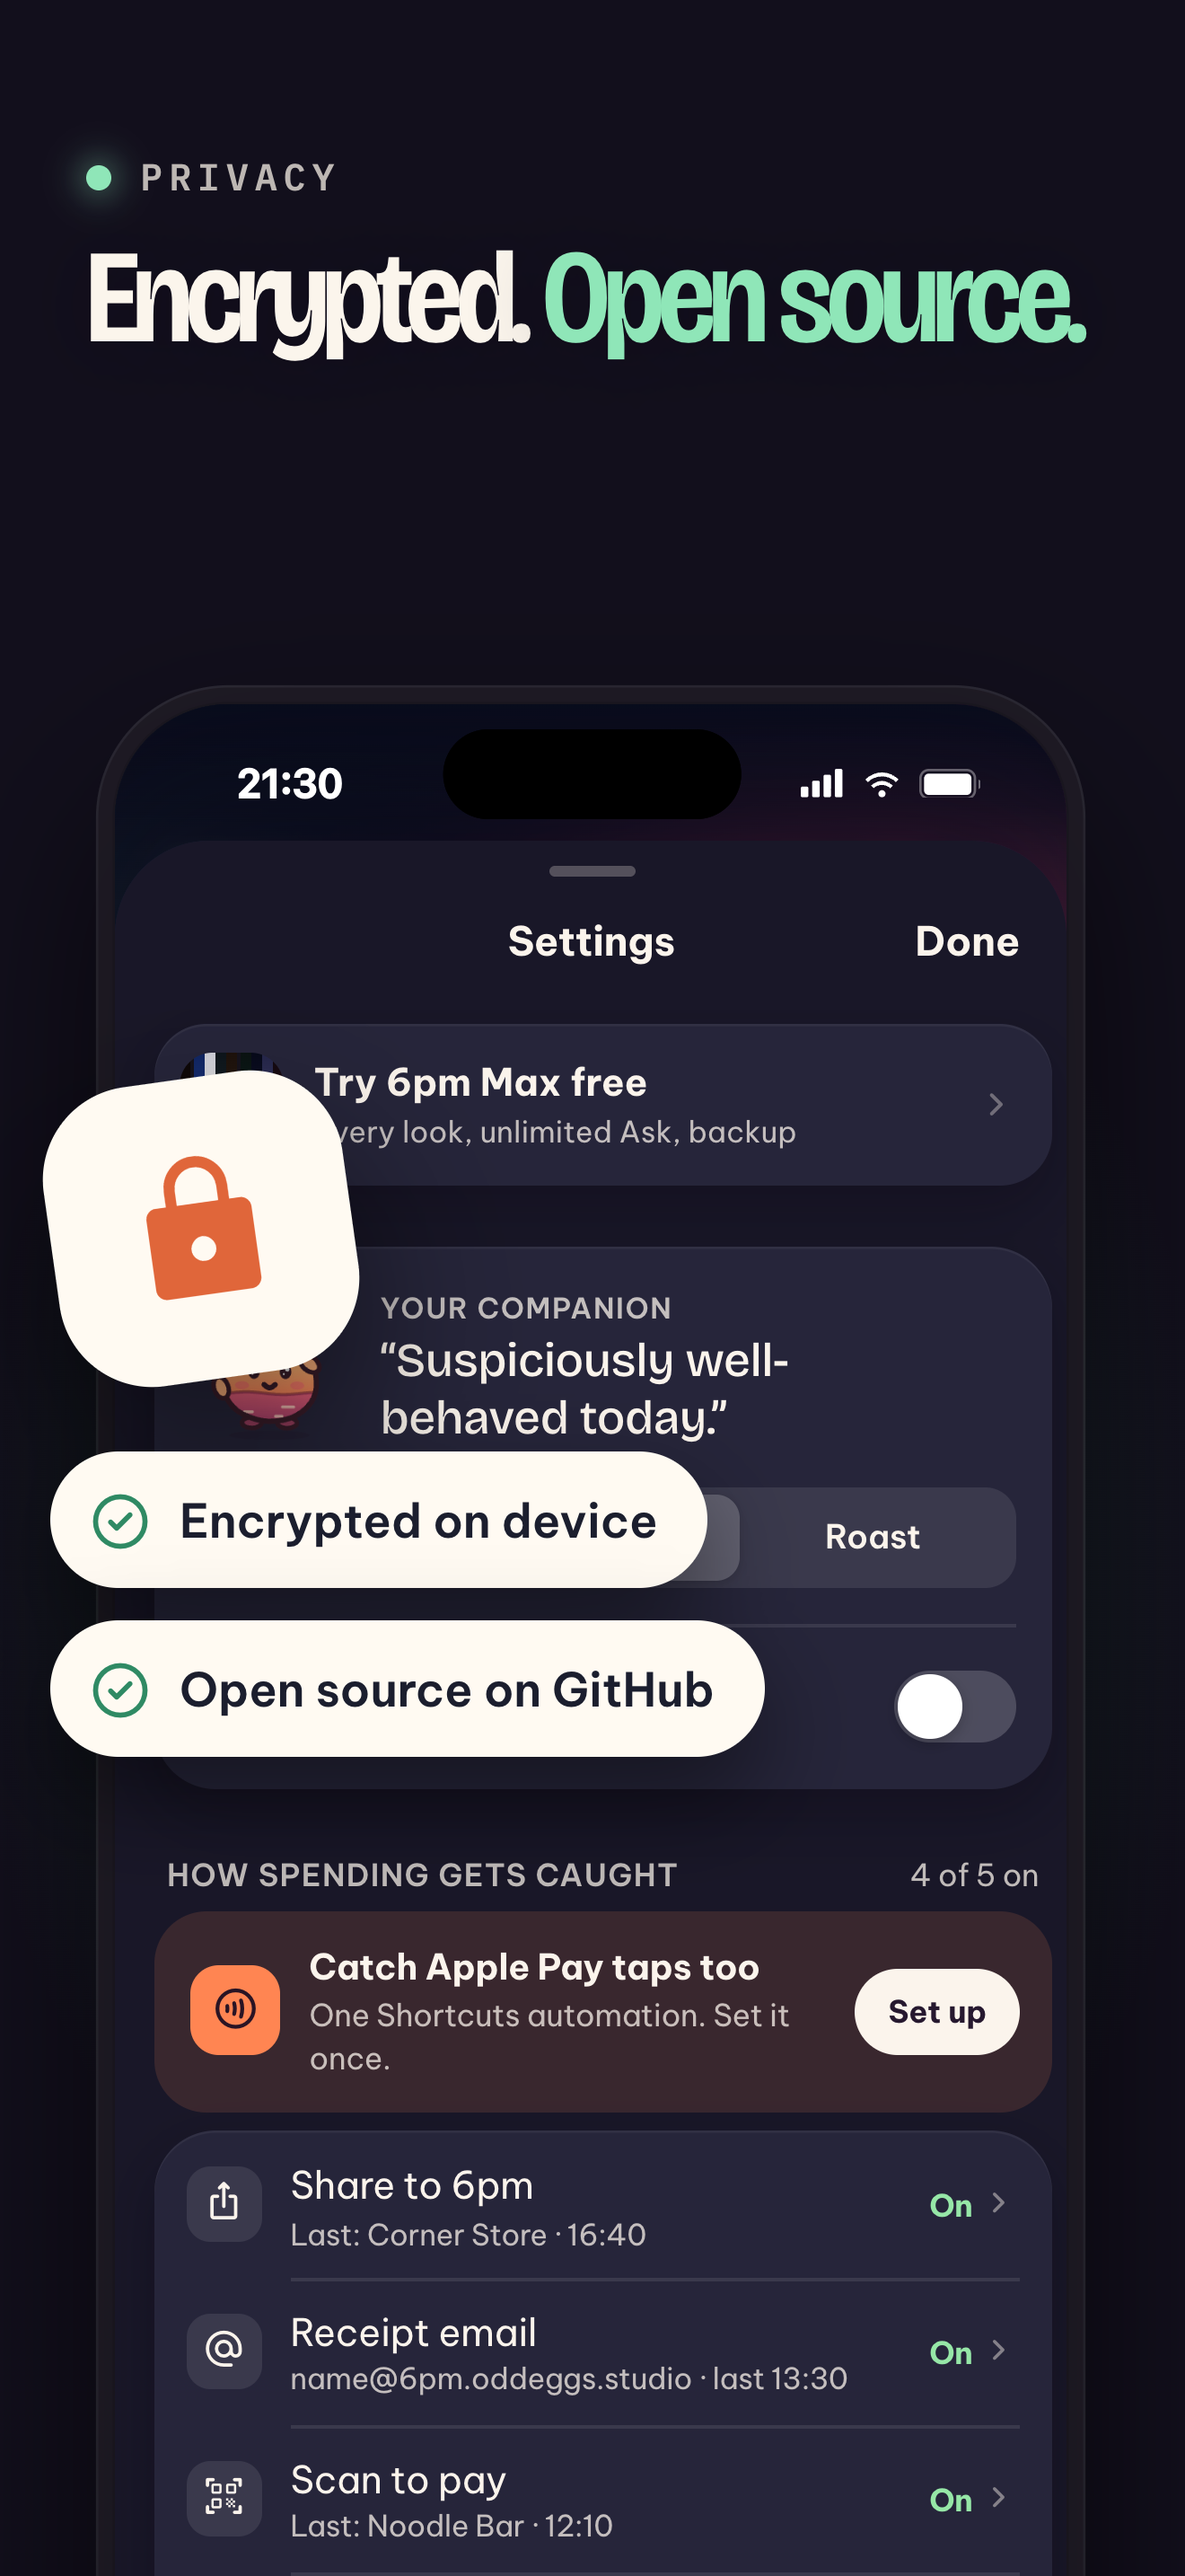
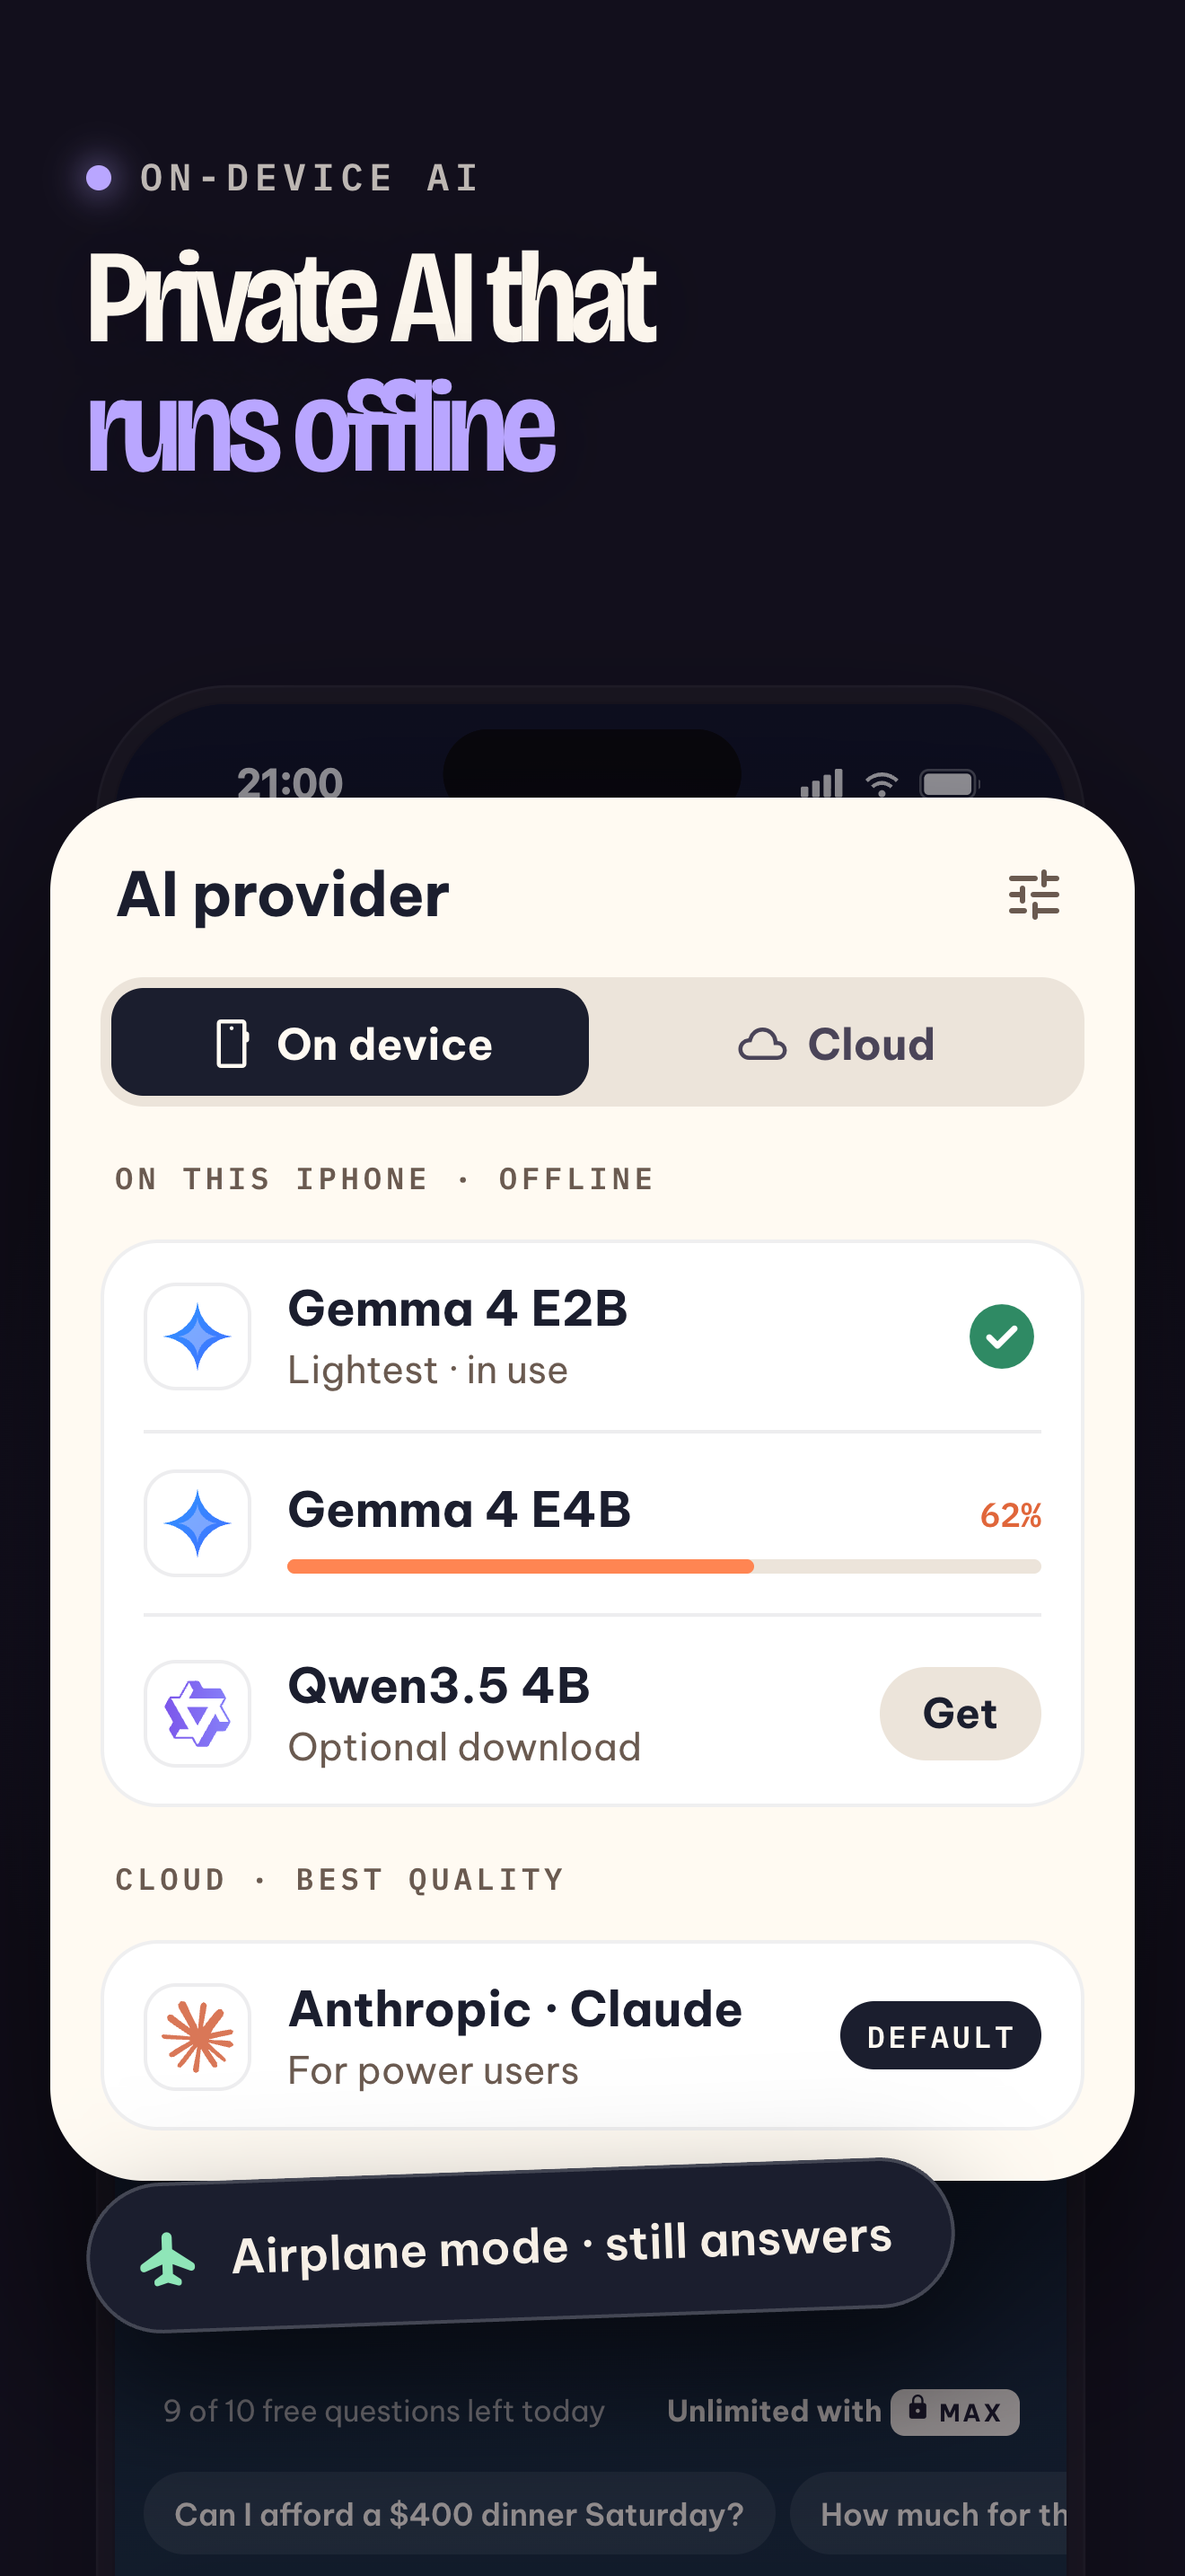
feat(store): iPad sheets at full height, iPad and Duo screenshots, readable release crashes (#486)
* feat(store): iPad sheets at full height, iPad and Duo screenshots, readable release crashes

- Sheets open as the iOS page sheet on iPad: the form sheet there is a small centred card, and the
  Max sheet's pinned plans and button covered most of it.
- Ten iPhone screenshots per language (the privacy shot is dropped for the limit), plus six 13-inch
  iPad shots in en-US and vi from real captures, and the ten iPhone Duo shots from the Duo listing.
- Signed builds get the Sentry token, so release crash reports come with source maps and symbols.

* feat(store): link the terms and privacy policy from the listing description

diff --git a/apps/mobile/src/ui/navigation/presentations.ts b/apps/mobile/src/ui/navigation/presentations.ts
@@ -1,4 +1,5 @@
 import type { Stack } from 'expo-router';
+import { Platform } from 'react-native';
 import type { ComponentProps } from 'react';
 
 type ScreenOptions = Extract<
@@ -13,9 +14,11 @@ type ScreenOptions = Extract<
  * prototype's 874 pt screen, 4 pt below the prototype's 58 (iOS will not raise a sheet higher).
  * iOS dims the page behind without shrinking it, so the sky stays above the sheet. Each sheet paints its own colour
  * (`SheetFrame`), and draws the prototype's grabber instead of the system one.
+ * On iPad a form sheet is a small card in the middle of the screen, too short for a pinned footer
+ * and its scroll, so there it is the page sheet: nearly the screen's height, as Mail composes.
  */
 export const sheet: ScreenOptions = {
-  presentation: 'formSheet',
+  presentation: Platform.OS === 'ios' && Platform.isPad ? 'pageSheet' : 'formSheet',
   sheetAllowedDetents: [1],
   sheetCornerRadius: 40,
   sheetGrabberVisible: false,

diff --git a/apps/mobile/store/README.md b/apps/mobile/store/README.md
@@ -18,7 +18,7 @@ captions.
 ## Screenshots
 
 `screenshots/en-US` (International storefronts: captions in English, $, Apple Pay, cards) and
-`screenshots/vi` (Vietnam: captions and the app in Vietnamese, ₫, VietQR, local merchants). Eleven each, 1320 × 2868,
+`screenshots/vi` (Vietnam: captions and the app in Vietnamese, ₫, VietQR, local merchants). Ten each (App Store Connect takes at most ten per device), 1320 × 2868,
 for the 6.9″ iPhone slot; App Store Connect scales them down for smaller iPhones. Upload them in order:
 
 | # | Caption keyword |
@@ -32,10 +32,26 @@ for the 6.9″ iPhone slot; App Store Connect scales them down for smaller iPhon
 | 07 | budget app themes · 3 live looks |
 | 08 | companion · alternate icons |
 | 09 | living scenes · Lantern River |
-| 10 | encrypted · open source · Settings |
-| 11 | on-device AI · offline · Gemma · Qwen · Claude |
+| 10 | on-device AI · offline · Gemma · Qwen · Claude |
 
-01–03 share one sunset across the search results, so keep them first and together.
+01–03 share one sunset across the search results, so keep them first and together. The privacy
+shot (encrypted · open source) was dropped for the ten-shot limit; the Privacy first custom product
+page leads with 01 instead.
+
+### iPad
+
+`screenshots-ipad/{en-US,vi}`: six 2064 × 2752 shots for the 13″ iPad slot. Each is a real capture
+of the developer build on the iPad Pro 13″ simulator (the Friday seed at 18:07, Golden Hour, $ for
+en-US and ₫ for vi), set in an iPad frame under the phone set's caption for the same screen:
+Today (01), the Close (02), Quick add (03), Plan (05), Diary (06) and Looks (07). The system status
+bar is painted over with a clean 18:07.
+
+### iPhone Duo
+
+`screenshots-duo/en-US`: the ten shots of `design/prototype/6pm Duo Store Listing.dc.html`, in
+order: outer display 01–05 (1398 × 2034, one sunset across them) and inner display 06–10
+(2007 × 2853). The design's captions are English only, so the vi listing shows these too.
+Rendered by element at 3×, with the lifted glass cards frosted and the set's rounded ends squared.
 
 ## In-app event (set up in App Store Connect)
 
@@ -54,7 +70,7 @@ Starts 6 Nov 2026, 18:00 (Asia/Ho_Chi_Minh).
 | --- | --- | --- | --- |
 | Vietnam · VietQR / Ngân hàng Việt | 03 · 01 · 02 | vietqr, bank email, expense tracker vietnam / vietqr, email ngân hàng, sổ thu chi | Scan VietQR and it’s logged as you pay. Never asks for your bank login. / Quét VietQR là tự ghi. Không bao giờ hỏi mật khẩu ngân hàng. |
 | Looks / Giao diện | 07 · 09 · 08 | aesthetic budget app, cute finance app / app chi tiêu đẹp, app tài chính dễ thương | 11 looks, from Sơn Mài lacquer to Neon Alley. Three of them move with the hour. / 11 giao diện, từ Sơn Mài đến Neon Alley. Ba cảnh động đổi theo giờ. |
-| Privacy first / Riêng tư | 10 · 01 · 02 | private budget app, no bank login / app chi tiêu riêng tư, không liên kết ngân hàng | Never asks for your bank password. Encrypted on your iPhone. Open source. / Không bao giờ hỏi mật khẩu ngân hàng. Mã hoá trên iPhone. Mã nguồn mở. |
+| Privacy first / Riêng tư | 01 · 02 · 10 | private budget app, no bank login / app chi tiêu riêng tư, không liên kết ngân hàng | Never asks for your bank password. Encrypted on your iPhone. Open source. / Không bao giờ hỏi mật khẩu ngân hàng. Mã hoá trên iPhone. Mã nguồn mở. |
 
 ## App preview (30 s, not rendered yet)
 

diff --git a/docs/undesigned-states.md b/docs/undesigned-states.md
@@ -330,3 +330,4 @@ fakes behaviour the app cannot fake. Founder review.
 | Scan | A receipt that cannot be read | The Scan alert card: "Couldn't read that photo", Type it or Try again | Same shape as the unreadable QR |
 | Scan | Changing a foreign total | Change types the amount in the home currency and drops the foreign total it replaces | The keypad has no currency key on this card yet; Quick add keeps foreign entry |
 | Scan · iPhone Duo | Closing | Scan fills the screen (a sheet would float as a card on the Duo's wide screens) and follows the finger when swiped right, leaving past the sheet's dismiss distance | No sheet to pull down there |
+| Every sheet · iPad | Presentation | The iOS page sheet, nearly the screen's height, instead of the form sheet the iPhone uses | On iPad a form sheet is a small centred card, which leaves the Max sheet's pinned plans and button covering its scroll |
